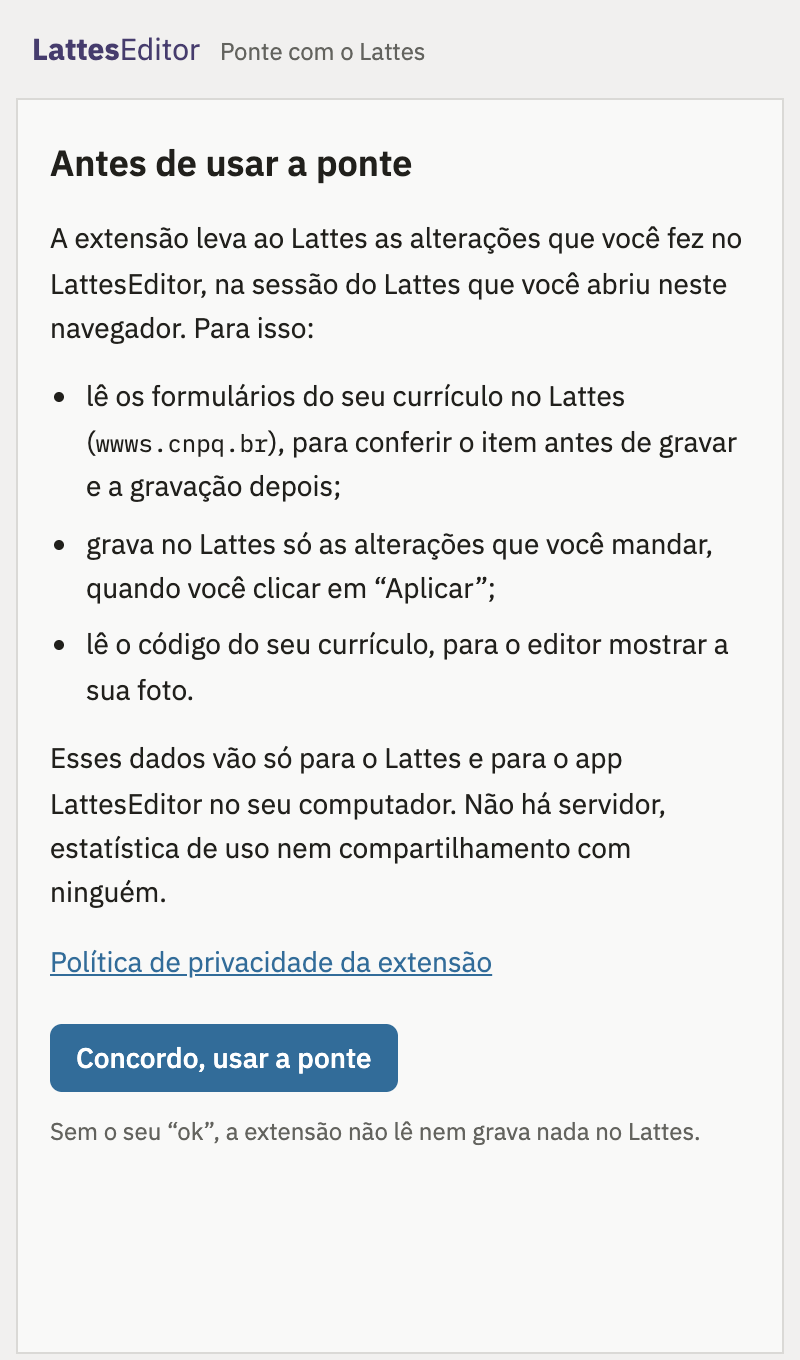
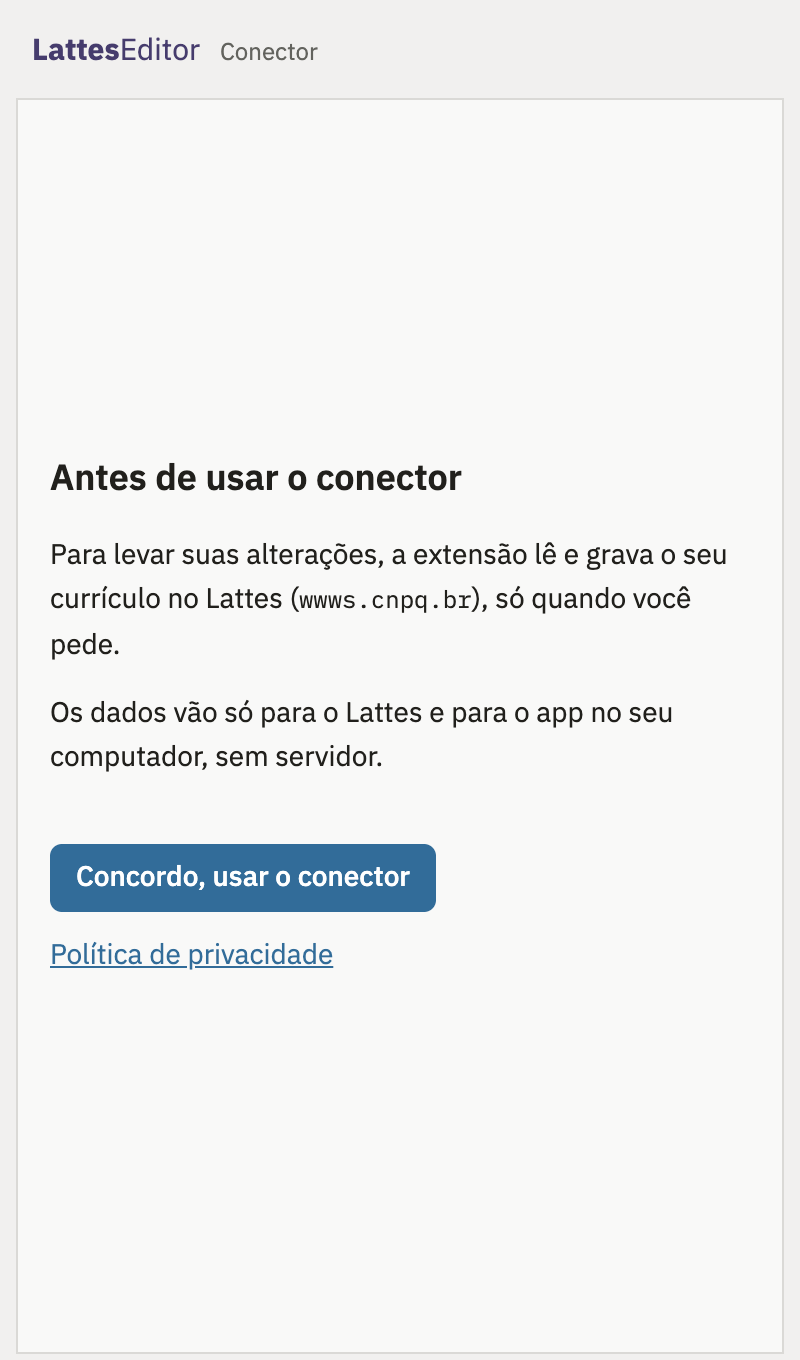
docs: imagens e textos da Chrome Web Store com o conector e o Abrir do Lattes
As capturas da loja mostravam "Ponte", o aviso longo e a seção de
verificação, que agora só aparece com problema; foram refeitas com o
pnpm capture:store.

A descrição, a finalidade única e a justificativa da permissão de host
passam a cobrir o que a extensão faz hoje: trazer o currículo para o
editor (o mesmo arquivo do "Exportar") e levar as alterações de volta. A
política de privacidade ganha o currículo inteiro, o menu e a página de
conferência entre os dados lidos, com data de 13/10/2026.

diff --git a/site/privacidade.html b/site/privacidade.html
@@ -114,14 +114,14 @@
         <p class="eyebrow">Extensão para Chrome</p>
         <h1>Política de privacidade da extensão</h1>
         <p class="prose-date">
-          Vale para “LattesEditor: Conector”. Atualizada em 12 de outubro de 2026.
+          Vale para “LattesEditor: Conector”. Atualizada em 13 de outubro de 2026.
         </p>
 
         <h2>O que a extensão faz</h2>
         <p>
-          Leva ao Currículo Lattes as alterações que você fez no LattesEditor, usando a sessão do
-          Lattes que você mesmo abriu no navegador. Ela não faz login, não vê nem guarda a sua senha
-          e não age fora dessa sessão.
+          Liga o LattesEditor ao seu Currículo Lattes: traz o currículo para o editor e leva ao
+          Lattes as alterações que você fez nele, usando a sessão do Lattes que você mesmo abriu no
+          navegador. Ela não faz login, não vê nem guarda a sua senha e não age fora dessa sessão.
         </p>
 
         <h2>Que dados ela usa</h2>
@@ -133,6 +133,18 @@
           <li>
             Os formulários do seu currículo no Lattes, lidos na sua sessão para conferir, antes de
             gravar, que o item é o certo, e depois, que a gravação deu certo.
+          </li>
+          <li>
+            O seu currículo inteiro, quando o editor pede para abri-lo: o mesmo arquivo que o
+            “Exportar” do Lattes gera, pedido na sua sessão e entregue ao editor.
+          </li>
+          <li>
+            O menu do seu currículo no Lattes: a data da última publicação e o aviso de alterações
+            ainda não enviadas ao CNPq, para o editor mostrar em que pé está o currículo.
+          </li>
+          <li>
+            A versão atual do currículo na página de conferência do Lattes, quando o editor compara
+            o que está no Lattes com o que você tem.
           </li>
           <li>
             O código do seu currículo (10 caracteres), lido da página do Lattes e entregue ao editor
@@ -147,8 +159,9 @@
             envio que o formulário do Lattes faria.
           </li>
           <li>
-            Para o app LattesEditor no seu computador, por mensagens nativas do navegador. Essa
-            conversa não sai da sua máquina.
+            Para o app LattesEditor no seu computador, por mensagens nativas do navegador: o
+            currículo, o estado do menu e o resultado de cada envio. Essa conversa não sai da sua
+            máquina.
           </li>
         </ul>
         <p>

diff --git a/docs/extensao_chrome_web_store.md b/docs/extensao_chrome_web_store.md
@@ -64,11 +64,11 @@ sessão.
 **Descrição:**
 
 ```text
-O conector leva ao Currículo Lattes as alterações que você fez no LattesEditor, o editor gratuito e de código aberto do Currículo Lattes para macOS, Windows e Linux.
+O conector liga o LattesEditor, o editor gratuito e de código aberto do Currículo Lattes para macOS, Windows e Linux, ao seu currículo no Lattes: traz o currículo para o editor e leva de volta o que você mudou.
 
 Como funciona:
-1. No LattesEditor, abra "Levar ao Lattes" e use "Enviar pela extensão".
-2. Com o seu currículo aberto no Lattes numa aba do navegador, clique em "Aplicar" no painel da extensão.
+1. Com o Lattes aberto numa aba do navegador, o LattesEditor abre o seu currículo pelo conector, sem baixar nem escolher arquivo.
+2. Depois de editar, abra "Levar ao Lattes" no editor e clique em "Aplicar" no painel do conector.
 3. Cada alteração é gravada na sua sessão, lida de volta e conferida antes da próxima. Se algo não bater, a fila para.
 
 Hoje o conector grava o resumo, os idiomas e os vínculos de atuação. O resto você leva pelo Importar do próprio Lattes, com o arquivo que o editor gera.
@@ -88,21 +88,21 @@ https://github.com/rlueder/lattes-editor/issues
 
 ### Aba "Privacidade"
 
-**Finalidade única:** levar ao Currículo Lattes, na sessão que a própria
-pessoa abriu, as alterações que ela fez no LattesEditor, conferindo cada uma
-depois de gravada.
+**Finalidade única:** ligar o LattesEditor ao Currículo Lattes da própria
+pessoa, na sessão que ela abriu: trazer o currículo para o editor e levar de
+volta as alterações feitas nele, conferindo cada uma depois de gravada.
 
 **Justificativa das permissões:**
 
-| Permissão                       | Justificativa                                                                                                                                         |
-| ------------------------------- | ----------------------------------------------------------------------------------------------------------------------------------------------------- |
-| `https://wwws.cnpq.br/*` (host) | Ler os formulários do currículo na sessão aberta, gravar as alterações confirmadas e ler de volta para conferir. Nenhum outro domínio.                |
-| `scripting`                     | Rodar, na aba do Lattes, o código que lê e envia os formulários, porque as requisições precisam sair da sessão da pessoa.                             |
-| `sidePanel`                     | Mostrar a fila de alterações e o resultado de cada uma ao lado do Lattes.                                                                             |
-| `storage`                       | Guardar a fila durante a sessão do navegador, o tema do ícone da barra e o registro de que a pessoa aceitou o aviso de uso.                           |
-| `nativeMessaging`               | Receber a fila do app LattesEditor instalado no computador e devolver o resultado de cada alteração. A conversa não sai da máquina.                   |
-| `alarms`                        | Refazer a ligação com o app quando ele é aberto depois do navegador.                                                                                  |
-| `offscreen`                     | Abrir um documento sem janela que só lê o tema do navegador (`matchMedia`), para o ícone da barra ser branco nas barras escuras e grafite nas claras. |
+| Permissão                       | Justificativa                                                                                                                                                                                            |
+| ------------------------------- | -------------------------------------------------------------------------------------------------------------------------------------------------------------------------------------------------------- |
+| `https://wwws.cnpq.br/*` (host) | Ler os formulários e o menu do currículo na sessão aberta, pedir o mesmo arquivo do "Exportar" para o editor abrir, gravar as alterações confirmadas e ler de volta para conferir. Nenhum outro domínio. |
+| `scripting`                     | Rodar, na aba do Lattes, o código que lê e envia os formulários, porque as requisições precisam sair da sessão da pessoa.                                                                                |
+| `sidePanel`                     | Mostrar a fila de alterações e o resultado de cada uma ao lado do Lattes.                                                                                                                                |
+| `storage`                       | Guardar a fila durante a sessão do navegador, o tema do ícone da barra e o registro de que a pessoa aceitou o aviso de uso.                                                                              |
+| `nativeMessaging`               | Receber a fila do app LattesEditor instalado no computador e devolver o resultado de cada alteração. A conversa não sai da máquina.                                                                      |
+| `alarms`                        | Refazer a ligação com o app quando ele é aberto depois do navegador.                                                                                                                                     |
+| `offscreen`                     | Abrir um documento sem janela que só lê o tema do navegador (`matchMedia`), para o ícone da barra ser branco nas barras escuras e grafite nas claras.                                                    |
 
 **Código remoto:** não. Todo o código vai no pacote.
 
